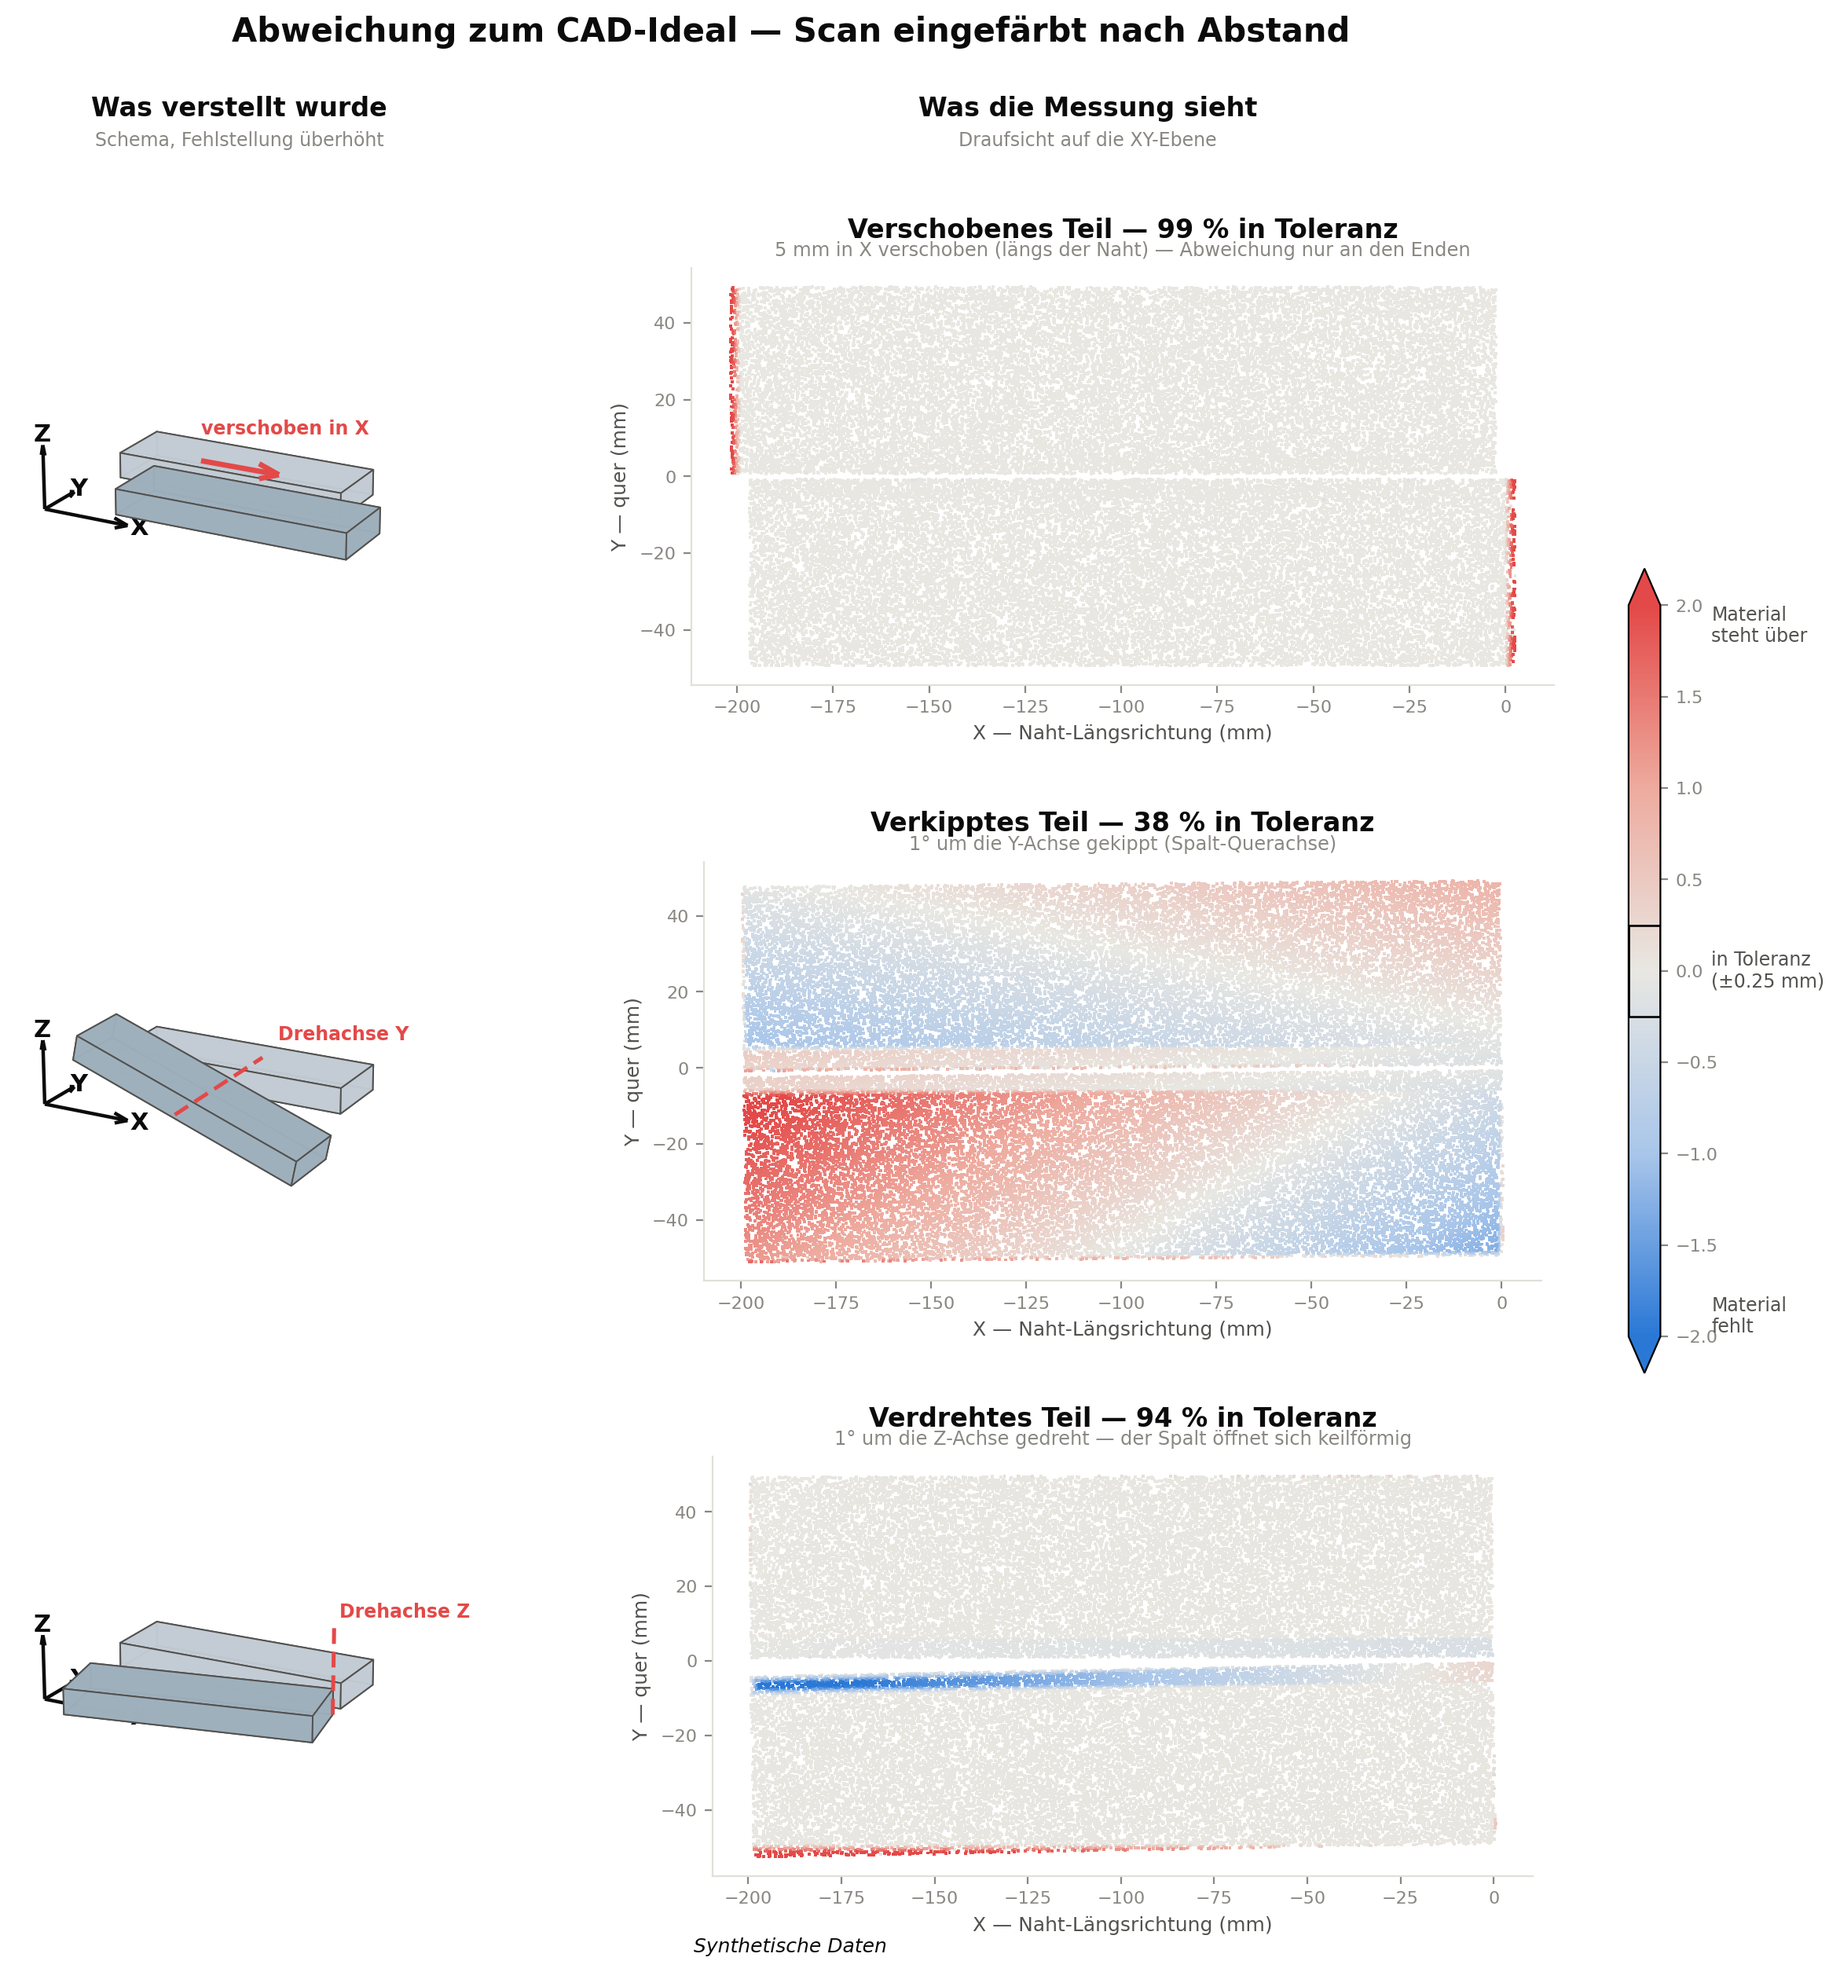
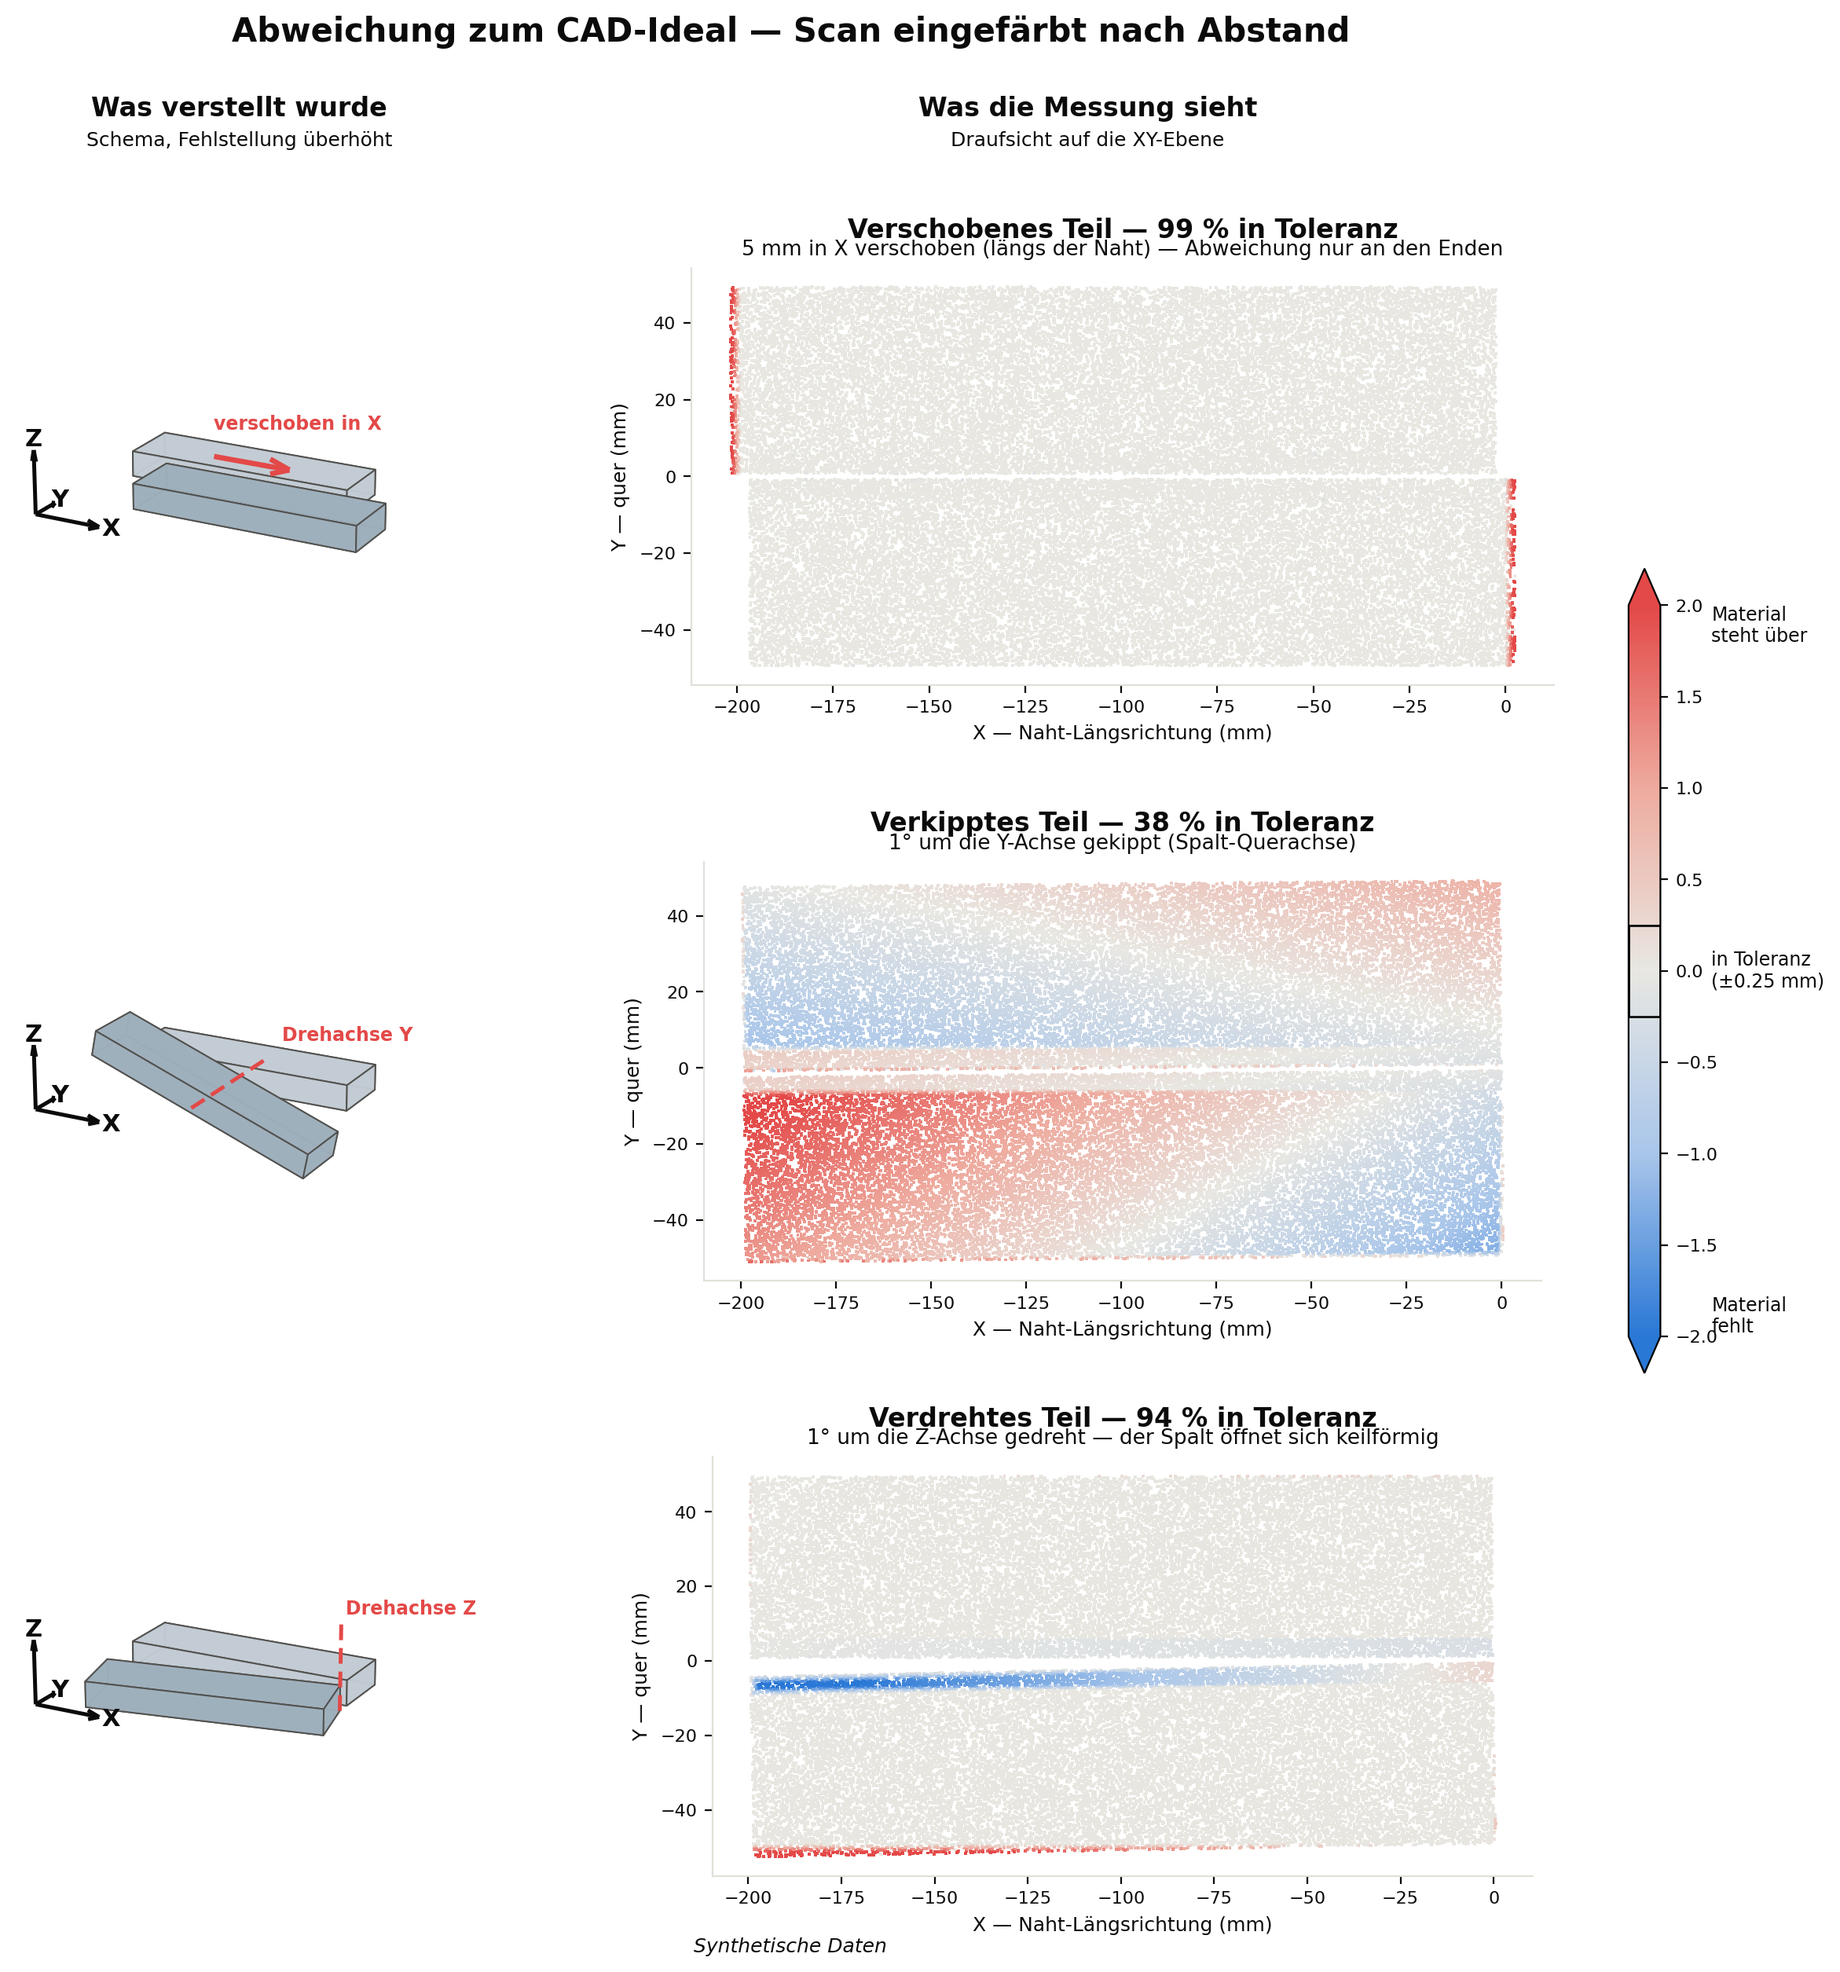
fix(figures): durchgehend schwarze Schrift, Koordinatensystem freistellen
Bild 1 (und Bild 3) hatten noch viel Grau: Achsen- und Tick-Beschriftung,
Spaltenunterzeilen, Panel-Unterschriften, Farbleisten-Labels. Alles auf
Schwarz umgestellt, Hierarchie ueber Groesse/Fettung statt Helligkeit.

Das Koordinatensystem in den 3D-Skizzen (Bild 1 und 2) wurde teils von den
Werkstuecken verdeckt -- besonders die +Y-Achse zeigte in die Quader. Der
Triade-Ursprung sitzt jetzt klar vor den Teilen (weit vorne links), die
+Y-Achse endet noch vor der Vorderkante, und Pfeile/Labels bekommen hohe
zorder. X/Y/Z sind in allen Skizzen frei sichtbar.

diff --git a/scripts/presentation_figures.py b/scripts/presentation_figures.py
@@ -85,9 +85,9 @@ FOOTER = "Synthetische Daten"
 
 def _plate_axes(ax):
     ax.set_aspect("equal")
-    ax.set_xlabel("X — Naht-Längsrichtung (mm)", fontsize=9, color=INK2)
-    ax.set_ylabel("Y — quer (mm)", fontsize=9, color=INK2)
-    ax.tick_params(colors=MUTED, labelsize=8)
+    ax.set_xlabel("X — Naht-Längsrichtung (mm)", fontsize=9, color=INK)
+    ax.set_ylabel("Y — quer (mm)", fontsize=9, color=INK)
+    ax.tick_params(colors=INK, labelsize=8)
     for s in ("top", "right"):
         ax.spines[s].set_visible(False)
     for s in ("left", "bottom"):
@@ -179,14 +179,15 @@ def draw_fault_schematic(ax, kind: str):
         # der Spalt öffnet sich keilförmig.
         _draw_slab(ax, yb0, yb1, C_WP_B, _rot_z_about(11, _LX / 2, yb1))
 
-    # Koordinatensystem an der vorderen unteren Ecke
-    ox, oy, oz = -_LX / 2 - 8, yb0 - 8, 0
-    triad = [((38, 0, 0), "X"), ((0, 22, 0), "Y"), ((0, 0, 20), "Z")]
+    # Koordinatensystem klar vor den Teilen (weit vorne links), damit kein
+    # Werkstück es verdeckt — auch die +Y-Achse endet noch vor der Vorderkante.
+    ox, oy, oz = -_LX / 2 - 12, yb0 - 26, 0
+    triad = [((30, 0, 0), "X"), ((0, 16, 0), "Y"), ((0, 0, 20), "Z")]
     for (u, v, w), name in triad:
-        ax.quiver(ox, oy, oz, u, v, w, color=INK, arrow_length_ratio=0.16,
-                  linewidth=1.6)
-        ax.text(ox + u * 1.14, oy + v * 1.16, oz + w * 1.16, name,
-                fontsize=11, color=INK, weight="bold", ha="center", va="center")
+        ax.quiver(ox, oy, oz, u, v, w, color=INK, arrow_length_ratio=0.18,
+                  linewidth=1.8, zorder=20)
+        ax.text(ox + u * 1.18, oy + v * 1.25, oz + w * 1.16, name, fontsize=11,
+                color=INK, weight="bold", ha="center", va="center", zorder=21)
 
     # Drehachse markieren
     if kind in ("tilt_y", "raise_tilt_y"):
@@ -228,8 +229,8 @@ def draw_fault_schematic(ax, kind: str):
     ax.set_box_aspect((_LX, 2 * _WY + _GAP, 40))
     ax.view_init(elev=20, azim=-62)
     ax.set_axis_off()
-    ax.set_xlim(-_LX / 2 - 10, _LX / 2 + 24)
-    ax.set_ylim(yb0 - 18, _GAP / 2 + _WY + 4)
+    ax.set_xlim(-_LX / 2 - 14, _LX / 2 + 24)
+    ax.set_ylim(yb0 - 30, _GAP / 2 + _WY + 4)
     ax.set_zlim(-8, 32)
 
 
@@ -250,11 +251,11 @@ def figure_deviation_map(cad, path: Path):
     fig.text(0.24, 0.925, "Was verstellt wurde", ha="center", fontsize=12,
              color=INK, weight="bold")
     fig.text(0.24, 0.910, "Schema, Fehlstellung überhöht", ha="center",
-             fontsize=8.5, color=MUTED)
+             fontsize=9, color=INK)
     fig.text(0.64, 0.925, "Was die Messung sieht", ha="center", fontsize=12,
              color=INK, weight="bold")
     fig.text(0.64, 0.910, "Draufsicht auf die XY-Ebene", ha="center",
-             fontsize=8.5, color=MUTED)
+             fontsize=9, color=INK)
 
     mappable = None
     for r, (case, title, fault, sub) in enumerate(CASES):
@@ -273,7 +274,7 @@ def figure_deviation_map(cad, path: Path):
         axm.set_title(f"{title} — {rate:.0f} % in Toleranz", fontsize=12,
                       color=INK, weight="bold", pad=14)
         axm.text(0.5, 1.02, sub, transform=axm.transAxes, ha="center",
-                 va="bottom", fontsize=8.7, color=MUTED)
+                 va="bottom", fontsize=9.5, color=INK)
         _plate_axes(axm)
 
     fig.suptitle("Abweichung zum CAD-Ideal — Scan eingefärbt nach Abstand",
@@ -281,14 +282,14 @@ def figure_deviation_map(cad, path: Path):
 
     cax = fig.add_axes([0.895, 0.30, 0.015, 0.40])
     cbar = fig.colorbar(mappable, cax=cax, extend="both")
-    cbar.ax.tick_params(colors=MUTED, labelsize=8)
+    cbar.ax.tick_params(colors=INK, labelsize=8)
     cbar.ax.axhspan(-TOLERANCE_MM, TOLERANCE_MM, facecolor="none",
                     edgecolor=INK, linewidth=1.0)
     for y, txt, va in ((VMAX, "Material\nsteht über", "top"),
                        (0.0, "in Toleranz\n(±0.25 mm)", "center"),
                        (-VMAX, "Material\nfehlt", "bottom")):
         cbar.ax.text(2.6, y, txt, transform=cbar.ax.get_yaxis_transform(),
-                     ha="left", va=va, fontsize=8.5, color=INK2)
+                     ha="left", va=va, fontsize=8.5, color=INK)
 
     _footer(fig)
     fig.savefig(path, bbox_inches="tight")
@@ -422,7 +423,7 @@ def figure_before_after(path: Path):
         ax.text(b.get_x() + b.get_width() / 2, v + 1.5, f"{v:.1f} %",
                 ha="center", fontsize=13, color=INK, weight="bold")
     ax.set_ylim(0, 112)
-    ax.set_ylabel("Anteil der Naht in Toleranz (%)", fontsize=10, color=INK2)
+    ax.set_ylabel("Anteil der Naht in Toleranz (%)", fontsize=10, color=INK)
     ax.set_title("Wie viel liegt in Toleranz?", fontsize=12, color=INK,
                  weight="bold")
 
@@ -432,7 +433,7 @@ def figure_before_after(path: Path):
         ax.text(b.get_x() + b.get_width() / 2, v + 0.012, f"{v:.4f} mm",
                 ha="center", fontsize=13, color=INK, weight="bold")
     ax.set_ylim(0, 0.47)
-    ax.set_ylabel("Registrierungs-Einfluss RMS (mm)", fontsize=10, color=INK2)
+    ax.set_ylabel("Registrierungs-Einfluss RMS (mm)", fontsize=10, color=INK)
     ax.set_title("Wie stark verfälscht die Ausrichtung?", fontsize=12,
                  color=INK, weight="bold")
     ax.annotate("240× kleiner", xy=(1, rms[1]), xytext=(1, 0.22),
@@ -440,7 +441,7 @@ def figure_before_after(path: Path):
                 arrowprops=dict(arrowstyle="->", color=C_GOOD, lw=1.6))
 
     for ax in axes:
-        ax.tick_params(colors=MUTED, labelsize=10)
+        ax.tick_params(colors=INK, labelsize=10)
         ax.tick_params(axis="x", colors=INK)
         for s in ("top", "right"):
             ax.spines[s].set_visible(False)
